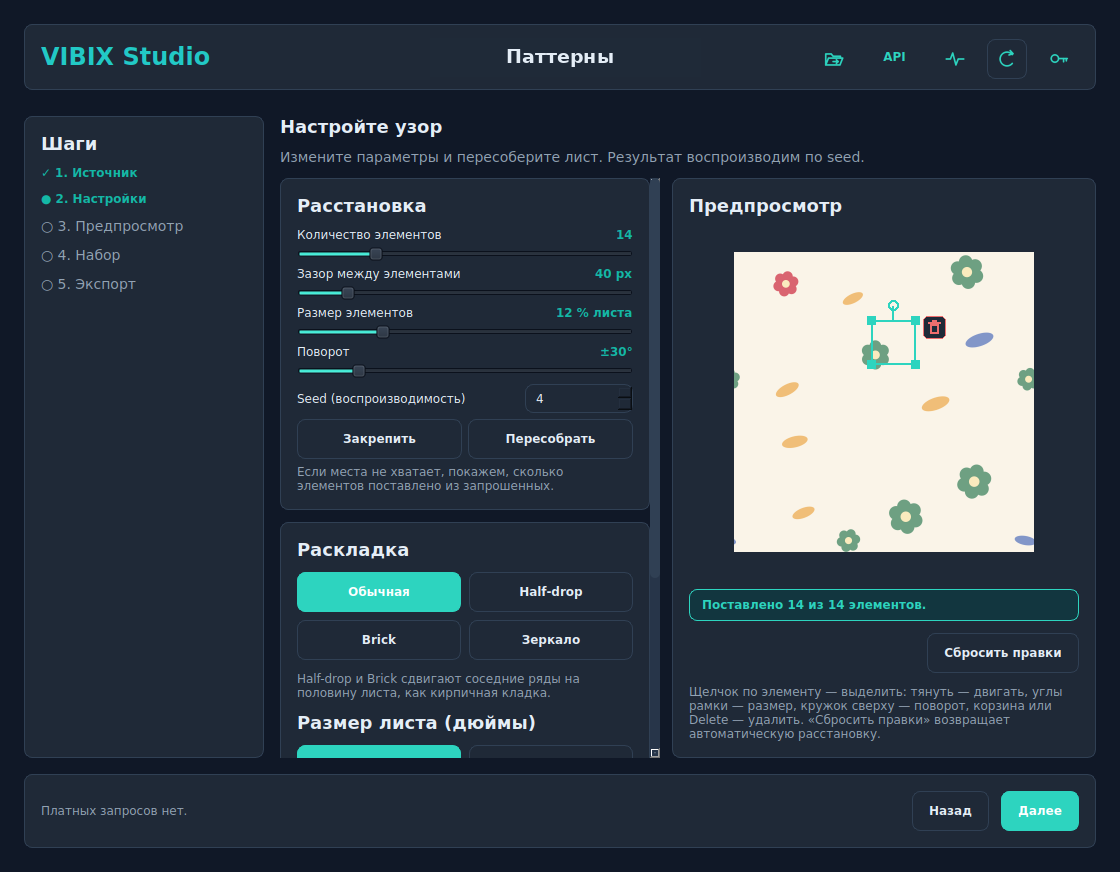
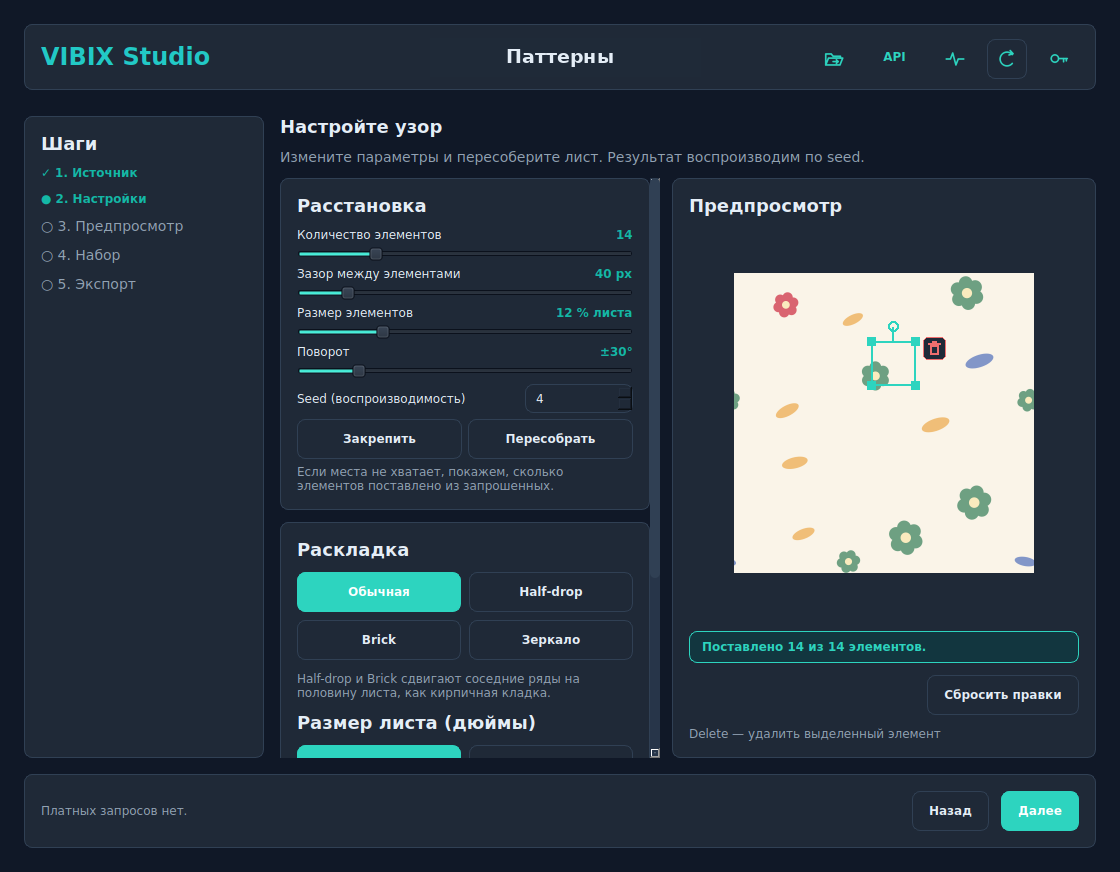
ui: Patterns without explanatory captions (owner rule); step 2/3 mockups trimmed [skip ci]

Changed region(s): [[0.5938, 0.5264, 0.9688, 0.867], [0.6562, 0.2787, 0.9375, 0.4954], [0.6875, 0.4335, 0.7188, 0.5573]]

diff --git a/docs/ui/3.2/patterns-owner-remarks/render_mockups.py b/docs/ui/3.2/patterns-owner-remarks/render_mockups.py
@@ -193,9 +193,7 @@ with tempfile.TemporaryDirectory(prefix="vibix-patterns-mock-") as temp:
     reset.setToolTip("Вернуть автоматическую расстановку: ручные правки элементов отменяются")
     reset_row = QHBoxLayout(); reset_row.addStretch(); reset_row.addWidget(reset)
     pl.insertLayout(pl.count() - 1, reset_row)
-    pl.itemAt(pl.count() - 1).widget().setText(
-        "Щелчок по элементу — выделить: тянуть — двигать, углы рамки — размер, кружок сверху — поворот, "
-        "корзина или Delete — удалить. «Сбросить правки» возвращает автоматическую расстановку.")
+    pl.itemAt(pl.count() - 1).widget().setText("Delete — удалить выделенный элемент")  # owner: only hotkeys
     pic.setPixmap(_qpixmap(sheet, 300, 300))
     img = grab(page); d = ImageDraw.Draw(img)
     org = pic.mapTo(page, pic.rect().topLeft()); pm = pic.pixmap()
@@ -226,7 +224,7 @@ with tempfile.TemporaryDirectory(prefix="vibix-patterns-mock-") as temp:
         view_bar.addWidget(V3Button(f"{n}×{n}", ButtonVariant.PRIMARY if n == 5 else ButtonVariant.SECONDARY))
     grid_box = QCheckBox("Сетка"); grid_box.setChecked(True); view_bar.addWidget(grid_box)
     prev_card.layout().insertLayout(0, view_bar)
-    prev_card.layout().addWidget(_text("Щелчок по картинке или значок в углу — на весь экран (Esc — выйти).", "v3Small"))
+
     # hide the old «Увеличить шов / Линии границ» row
     for w in prev_card.findChildren(QWidget):
         if isinstance(w, QLabel) and w.text().startswith("Линии границ"):
@@ -246,19 +244,14 @@ with tempfile.TemporaryDirectory(prefix="vibix-patterns-mock-") as temp:
         if t == "Оценка шва":
             w.setText("Проверка стыка")
         elif t.startswith("Оценка: скачок"):
-            w.setText("Проверяет программа, автоматически: сравнивает переход через край листа с обычными "
-                      "переходами внутри рисунка. «Готово» — стык при повторе не заметен.\n\n"
-                      "Из ваших PNG программа ничего не исправляет: элемент у края переносится на "
-                      "противоположную сторону, поэтому лист бесшовный сразу.\n"
-                      "Для готовой плитки программа смешивает полосу у краёв (ширина — на шаге 2).")
+            w.hide()   # owner: no explanatory captions; the explanation is in the tooltip of the status
         elif t.startswith("По горизонтали"):
-            w.setText("Стык слева-справа: 0.07 · сверху-снизу: 0.01 (норма — до 1.5)")
+            w.hide()
     page.seam_status.setText("Готово: стык не заметен")
-    page.preview_subtitle.setText("Лист повторён рядом сам с собой, как на бумаге. Выберите, сколько плиток показать.")
+    page.preview_subtitle.hide()
     page.primary_action.setText("Сохранить в набор")
     page.secondary_action.hide()
-    right.layout().addWidget(_text("Лист попадёт в набор (шаг 4). Там можно добавить ещё варианты и выгрузить "
-                                   "все листы сразу. Другую расстановку делайте на шаге 2.", "v3Small"))
+
     img3 = grab(page); d3 = ImageDraw.Draw(img3)
     pr = page.preview_picture; o = pr.mapTo(page, pr.rect().topLeft()); pm = pr.pixmap()
     x1 = o.x() + (pr.width() + pm.width()) // 2; y0 = o.y() + (pr.height() - pm.height()) // 2

diff --git a/studio_patterns_page.py b/studio_patterns_page.py
@@ -386,7 +386,7 @@ class PatternsPage(QWidget):
         self.background_swatch = QLabel()
         self.background_swatch.setFixedSize(44, 34)
         self.background_swatch.setCursor(Qt.CursorShape.PointingHandCursor)
-        self.background_swatch.setToolTip("Выбрать цвет фона")
+        self.background_swatch.setToolTip("Выбрать цвет фона. Фон попадёт в итоговый файл; «Прозрачный» — только для PNG")
         self.background_swatch.mousePressEvent = lambda _event: self._pick_background()
         row.addWidget(self.background_swatch)
         self.background_name = _text("Тёплый белый")
@@ -395,7 +395,6 @@ class PatternsPage(QWidget):
         self.transparent_button.clicked.connect(self._toggle_transparent)
         row.addWidget(self.transparent_button)
         left_layout.addLayout(row)
-        left_layout.addWidget(_text("Фон попадёт в итоговый файл. «Прозрачный» — только для PNG.", "v3Small"))
         left_layout.addStretch()
         columns.addWidget(left, 1)
         right, right_layout = _card()
@@ -955,8 +954,7 @@ class PatternsPage(QWidget):
         elif records:
             # A ready tile is a whole picture: transparency is not expected, the size is information only.
             self.checks.addWidget(_status("Прозрачный фон для готовой плитки не нужен.", "ok"))
-            self.checks.addWidget(_text(f"Выбран файл {records[0]['name']} · {records[0]['width']} × {records[0]['height']} px. "
-                                        "Подойдёт файл до 8192 px по стороне; шов проверим на следующем шаге.", "v3Small"))
+            self.checks.addWidget(_text(f"{records[0]['name']} · {records[0]['width']} × {records[0]['height']} px", "v3Small"))
 
     def _refresh_settings(self):
         s, tile = self._settings, self._mode == "tile"
@@ -974,7 +972,7 @@ class PatternsPage(QWidget):
         self.background_swatch.setStyleSheet(f"background:{color}; border:1px solid {self.tokens.border};")
         default = list(s["background"][:3]) == list(DEFAULTS["background"][:3])
         name = "Тёплый белый" if default else "Свой цвет #{:02X}{:02X}{:02X}".format(*s["background"][:3])
-        self.background_name.setText("Прозрачный" if s["transparent"] else f"{name} — нажмите на образец, чтобы выбрать цвет")
+        self.background_name.setText("Прозрачный" if s["transparent"] else name)
         self.transparent_button.set_variant(ButtonVariant.PRIMARY if s["transparent"] else ButtonVariant.SECONDARY)
         locked = sum(1 for e in self._elements if e.get("locked"))
         shortage = getattr(self, "_layout_shortage", None)

diff --git a/tests/test_patterns_page.py b/tests/test_patterns_page.py
@@ -308,7 +308,7 @@ def test_ready_tile_texts_name_the_file_and_need_no_transparency(runtime, app, t
     page._refresh(); app.processEvents()
     texts = [page.checks.itemAt(i).widget().text() for i in range(page.checks.count())]
     assert texts[0] == "Прозрачный фон для готовой плитки не нужен."
-    assert "Выбран файл tile.png · 600 × 400 px" in texts[1]
+    assert texts[1] == "tile.png · 600 × 400 px"
     assert not any("прозрачным фоном" in t for t in texts)
     assert page.pick_tile.text() == "Выбрать другой файл"
     close_page(app, handle, page, host)
@@ -339,7 +339,7 @@ def test_background_colour_can_be_picked(runtime, app, tmp_path, monkeypatch):
     monkeypatch.setattr(QColorDialog, "getColor", staticmethod(lambda *a, **k: QColor(10, 120, 200)))
     page._pick_background()
     assert page._settings["background"] == [10, 120, 200, 255] and not page._settings["transparent"]
-    assert page.background_name.text().startswith("Свой цвет #0A78C8")
+    assert page.background_name.text() == "Свой цвет #0A78C8"
     close_page(app, handle, page, host)
 
 

diff --git a/docs/ui/3.2/patterns-owner-remarks/README.md b/docs/ui/3.2/patterns-owner-remarks/README.md
@@ -41,3 +41,6 @@
 - Шаг 3: в одну строку «Плиток: 3×3 … 7×7» и галочка «Сетка»; «На весь экран» — значок в углу картинки и щелчок по
   картинке.
 - Статус: П7 и шаг 3 — ЖДУТ УТВЕРЖДЕНИЯ этой итерации. П1, П2, П4 (с правками), П5, П6, П8 — УТВЕРЖДЕНЫ 2026-10-23.
+- Правило владельца 2026-10-23: минимум поясняющих подписей — только горячие клавиши и необходимое. Убраны: пометка
+  о фоне (теперь во всплывающей подсказке образца), «— нажмите на образец…», длинная строка о размере плитки (теперь
+  «tile.png · 600 × 400 px»); в макетах шагов 2–3 — абзацы пояснений (осталось «Delete — удалить выделенный элемент»).
